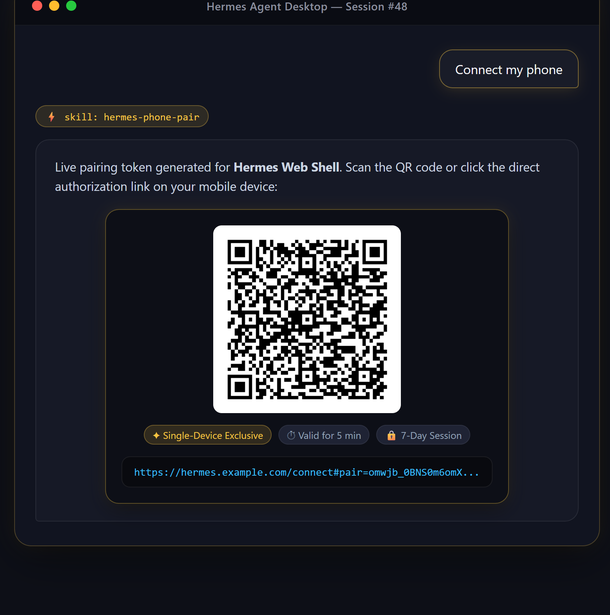
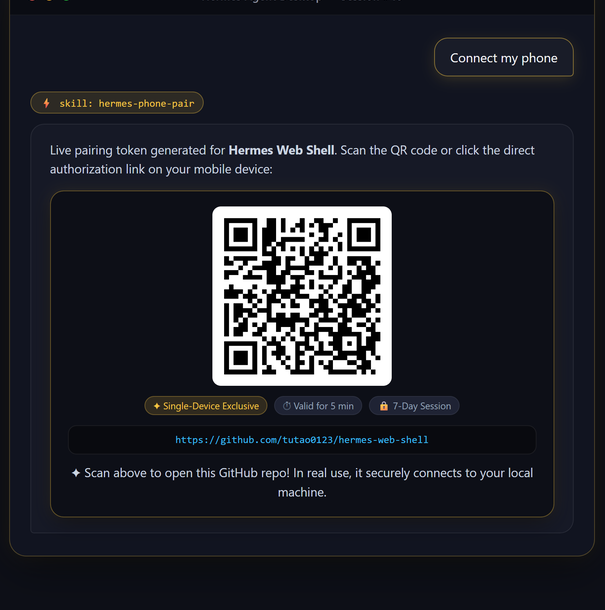
docs: add interactive Easter egg QR pointing to GitHub repo with explanatory note

diff --git a/README.md b/README.md
@@ -124,6 +124,8 @@ Hermes will automatically run the pairing helper and render the QR code image an
 
 <p align="center">
   <img src="docs/screenshots/in-chat-pairing.png" alt="In-Chat Phone Pairing" width="560">
+  <br>
+  <em style="color: #8b8f9e; font-size: 0.9em;">✦ Try scanning the demo QR code above with your phone to open this repo! In actual use, it securely connects directly to your own machine running Hermes.</em>
 </p>
 
 ---
